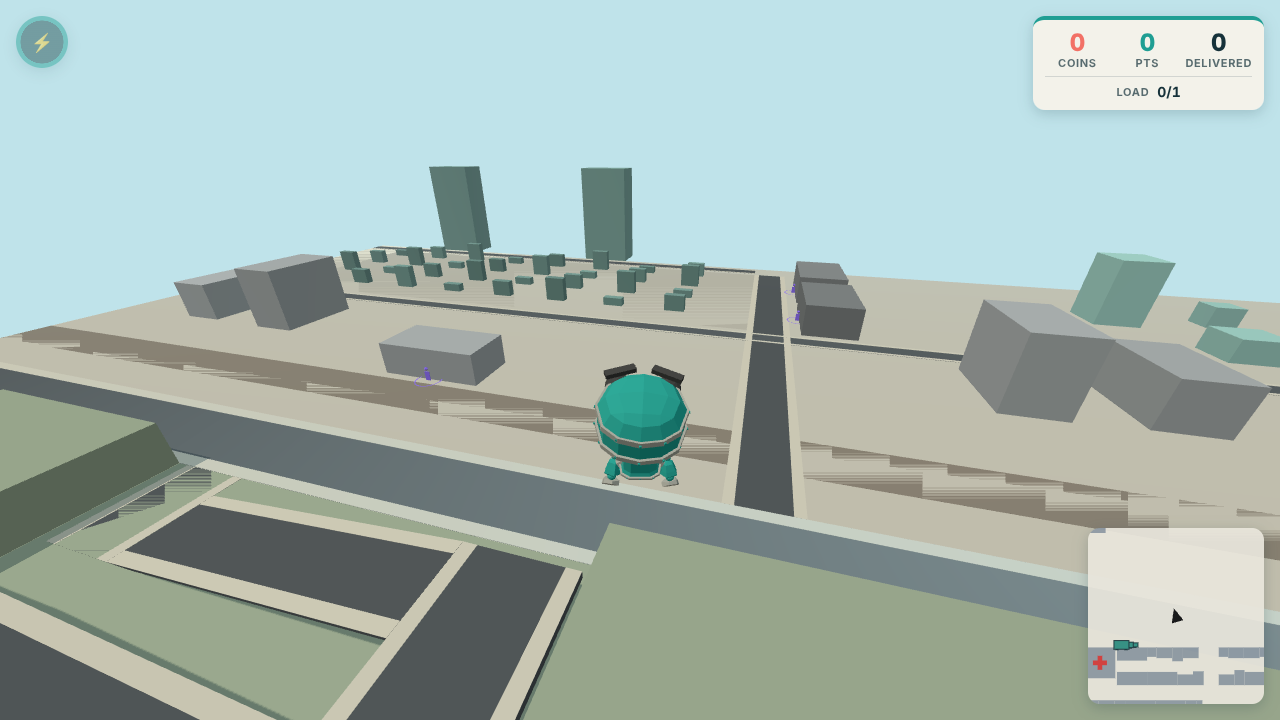
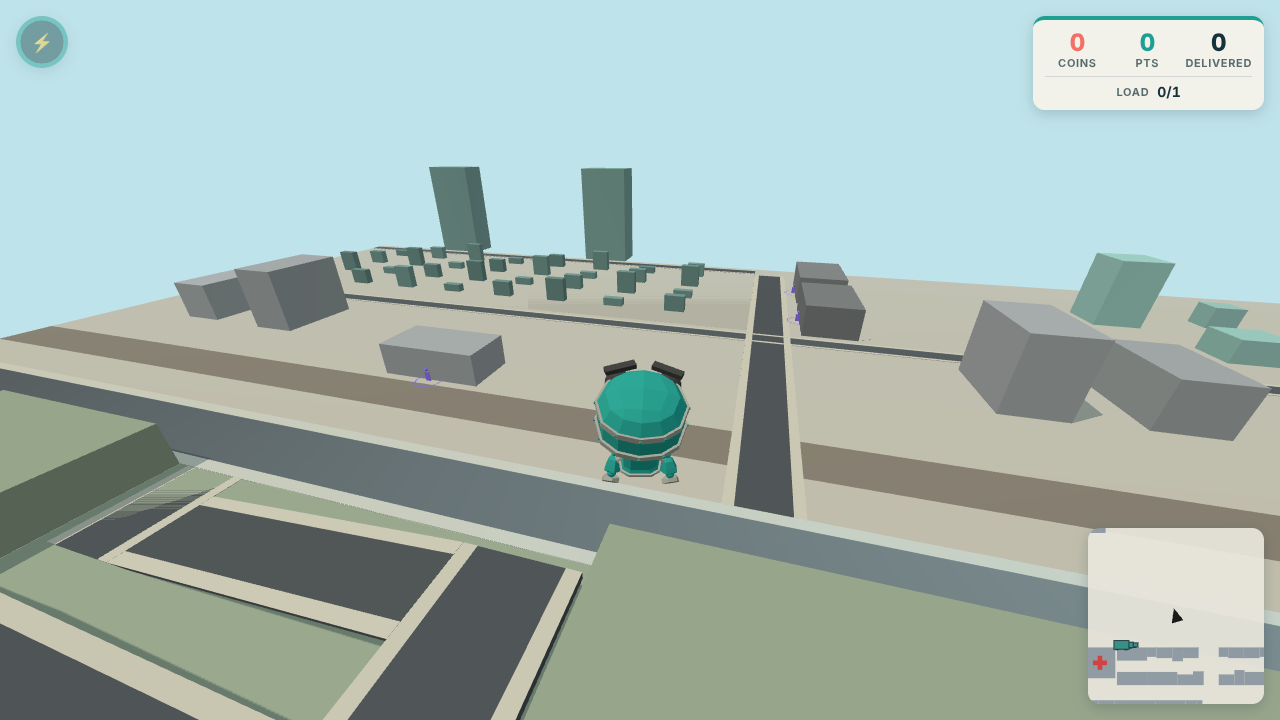
refactor: single turn clamp in tryTurnToward, default prompt keys; refresh SP5 screenshots
tryTurnToward derives its back-out step from clampTurn instead of
repeating the clamp. The HUD prompt falls back to the default F / E key
labels when a binding list is empty. The SP5 playtest screenshots are
re-taken on the placeholder city after the shadow fix (39 e2e passed).

Claude-Session: https://claude.ai/code/session_01FKg5YnUDKEFT1Zw3WZQcKJ

diff --git a/packages/client/src/ui/hudModel.ts b/packages/client/src/ui/hudModel.ts
@@ -160,11 +160,11 @@ export function promptFor(
   bindings: { mount: readonly string[]; interact: readonly string[] } = clientConfig.input.bindings,
 ): string | null {
   if (c.phoneOpen) return null;
-  const mount = keyLabel(bindings.mount[0] ?? '');
+  const mount = keyLabel(bindings.mount[0] ?? 'KeyF');
   if (c.riding !== null) {
     if (!c.stopped) return null;
     const refuel = c.atPump && !c.tankFull && ridingConfig.rides[c.riding].fuel;
-    return refuel ? `Hold ${keyLabel(bindings.interact[0] ?? '')} · Refuel` : `${mount} · Get off`;
+    return refuel ? `Hold ${keyLabel(bindings.interact[0] ?? 'KeyE')} · Refuel` : `${mount} · Get off`;
   }
   if (c.mountCandidate !== null) return `${mount} · Ride the ${c.mountCandidate}`;
   return c.atPump && c.ownsFuelledRide ? 'Get on to refuel' : null;

diff --git a/packages/shared/src/vehicles/VehicleBody.ts b/packages/shared/src/vehicles/VehicleBody.ts
@@ -123,9 +123,10 @@ export class VehicleBody {
    */
   tryTurnToward(target: number, maxTurn: number): number {
     const h = this.headingNow;
-    const step = Math.max(-maxTurn, Math.min(maxTurn, wrapAngle(target - h)));
+    const first = clampTurn(h, target, maxTurn);
+    const step = wrapAngle(first - h);
     if (step === 0) return h;
-    for (const heading of [clampTurn(h, target, maxTurn), wrapAngle(h - step)]) {
+    for (const heading of [first, wrapAngle(h - step)]) {
       if (this.tryTurn(heading)) return this.headingNow;
     }
     return this.headingNow;
